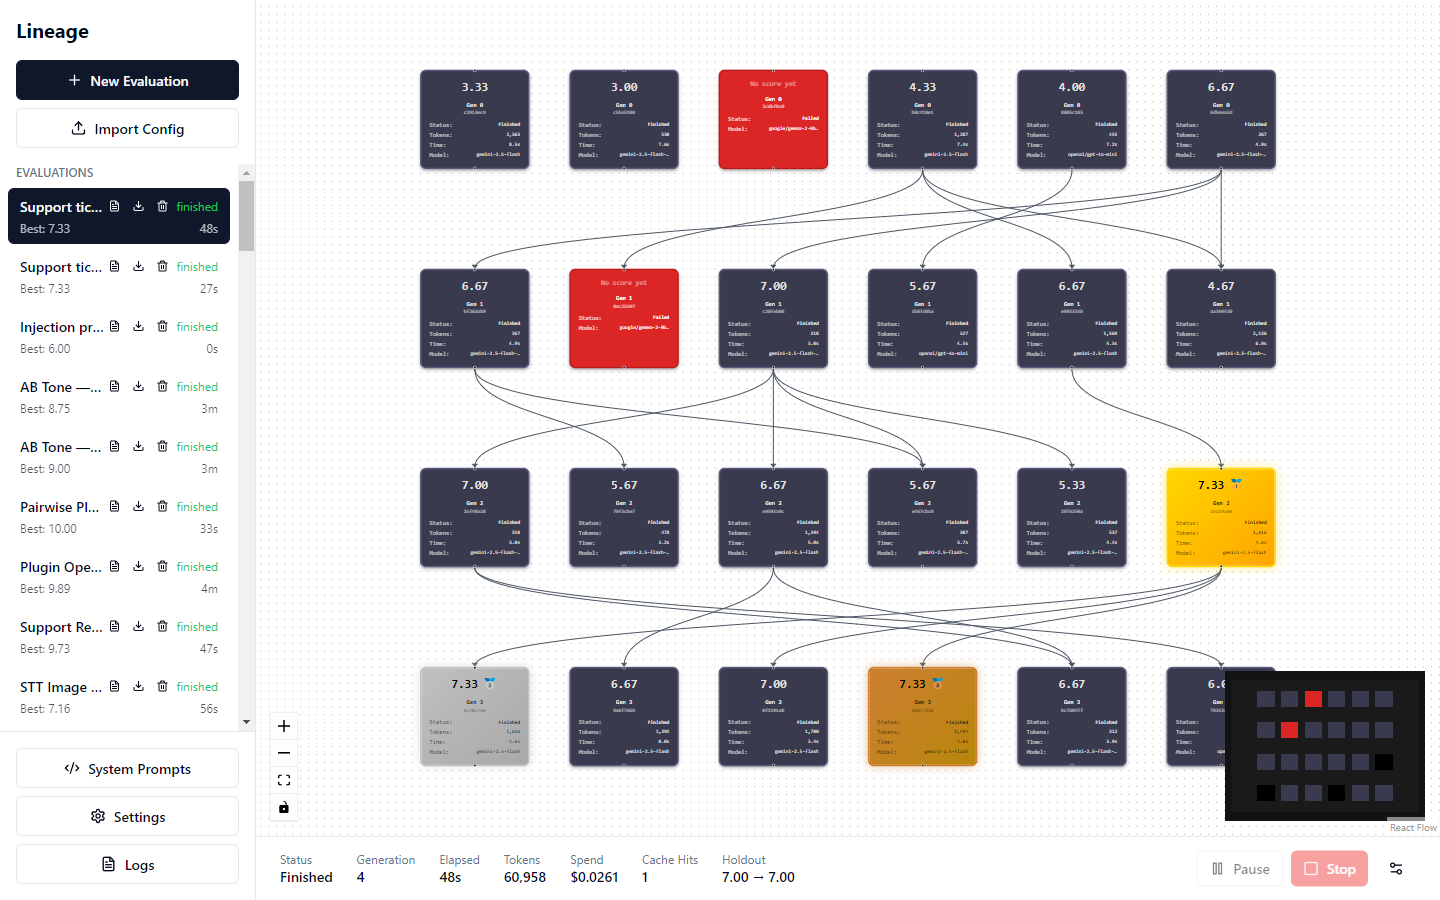
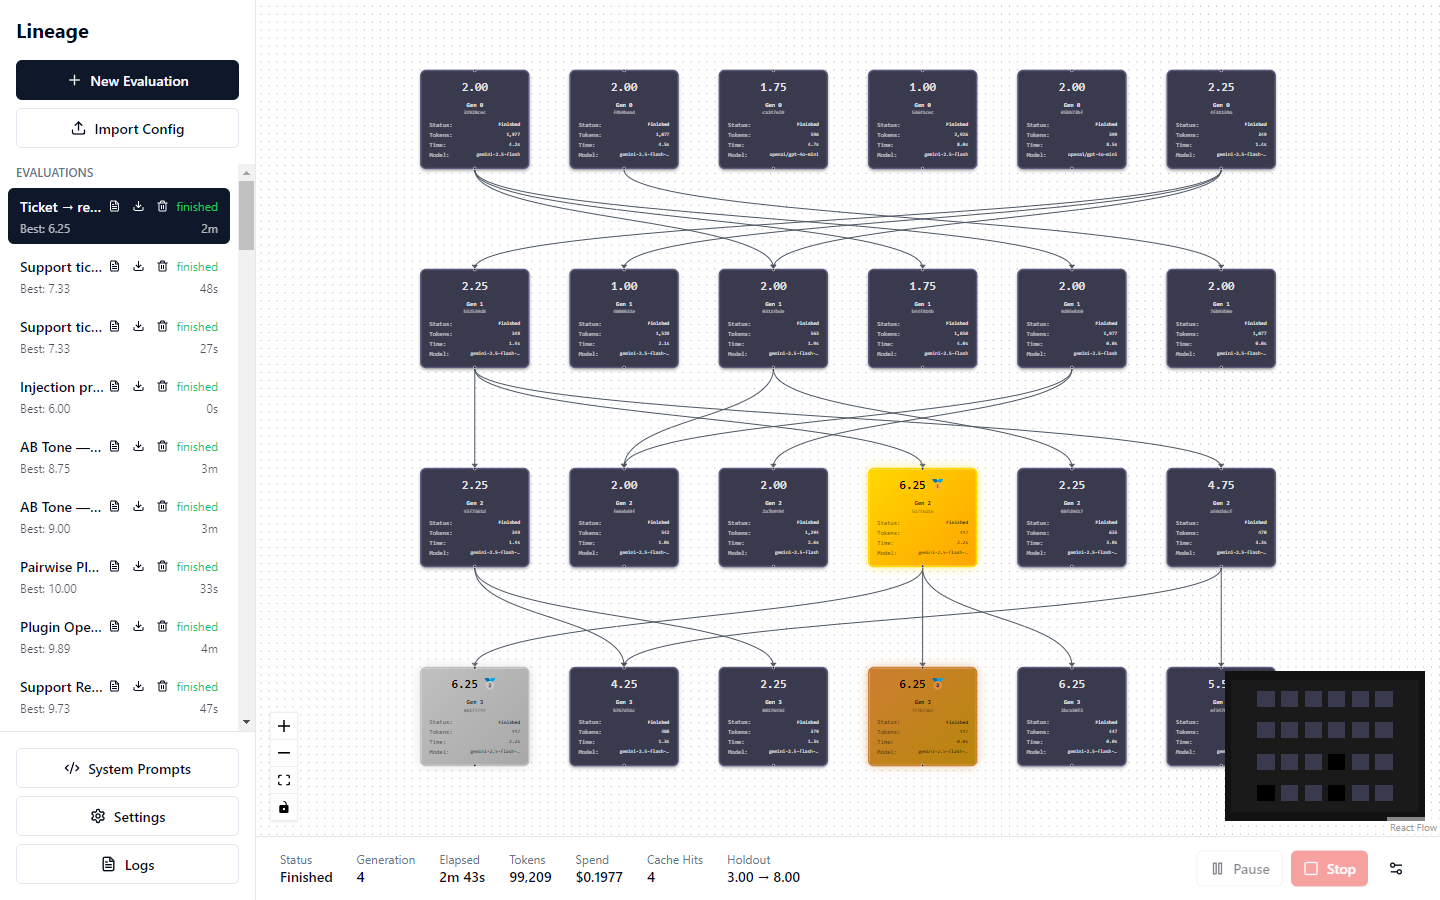
A hero image where the tool actually works
The previous demo picked a task with no headroom - a naive "summarize
this ticket" prompt already scored 6.7, so four generations bought
almost nothing and the holdout never moved. Shipping that as the front
page, with a caption explaining why it was fine, was the wrong call:
the hero exists to show the mechanism working, and the mechanism needs
a task where a bad prompt genuinely fails.

New demo: tickets in, a strict one-line record out. The seed writes
prose and scores 2.25. Meta-prompting reads the graded failures and
writes the output contract itself by generation 2 - 6.25 - and on two
tickets evolution never saw, 3.00 -> 8.00. The champion runs on the
cheapest model in the pool. Every number in the caption comes from that
run, and the node-details shot shows the [META] edit that invented the
format next to the output it produced.

diff --git a/README.md b/README.md
@@ -12,7 +12,7 @@ Lineage treats a prompt like a genome: it spawns a population of variants, score
 
 ![Evolution run](docs/assets/evolution-run.gif)
 
-*A real 48-second run: 24 candidates, 4 generations, 4 models competing, $0.026 total. The hand-written seed scored 6.67; the champion 7.33, reached by meta-prompting that read the judge's complaints and added few-shot examples. Two candidates on one OpenRouter model failed outright (red) and the run carried on. Note the footer: `Holdout 7.00 → 7.00`. The training score improved and the held-out score did not — so this run bought a better prompt on the tests it could see and no proven generalization. The tool says so on its own front page rather than quoting you the training delta.*
+*A real run: 24 candidates, 4 generations, 3 models competing, 2m43s, $0.20 total. The task: turn support tickets into a strict one-line record. The hand-written seed — "Summarize the customer ticket." — scored **2.25**: it writes prose, and prose is the wrong answer. By generation 2, meta-prompting had read the graded failures and written the output contract itself (`order=<order_number> | issue=<core_issue> | request=<specific_request>`) — **6.25**. And the number that counts, bottom right: on two tickets evolution never saw, **3.00 → 8.00**. The format it discovered generalized; that's the claim the holdout is there to license.*
 
 ## Why this beats prompt engineering by hand
 
@@ -20,7 +20,7 @@ Lineage treats a prompt like a genome: it spawns a population of variants, score
 
 **It optimizes trade-offs, not just quality.** Fitness is a weighted blend of five dimensions — quality, safety, cost, latency, stability — so the questions in the header aren't marketing: they're just weight configurations. The population converges toward *your* trade-off, not toward generic eloquence.
 
-**It searches model choice, not just wording.** With several models in the gene pool, the model-variation operator keeps re-dealing prompts to different models, and the per-model scores fall out of the same run — in the demo above, four models competed and the champion ended up on `gemini-2.5-flash` (best 7.33) over `gemini-2.5-flash-lite` (7.00) and `openai/gpt-4o-mini` (6.00), at $0.0014 per candidate. Sometimes that finds a cheap model that matches an expensive one; either way you get the comparison as evidence instead of a hunch.
+**It searches model choice, not just wording.** With several models in the gene pool, the model-variation operator keeps re-dealing prompts to different models, and the per-model comparison falls out of the same run — in the demo above the champion landed on `gemini-2.5-flash-lite`, the cheapest model in the pool, because by then the prompt was carrying the work. Evolution routinely finds that a tuned prompt on a cheap model beats a mediocre prompt on an expensive one, and you get that as measured evidence instead of a hunch.
 
 **It learns from its own failures.** The meta-prompting operator reads the judge's actual feedback on failing tests ("added a preamble", "wrong date format") and performs surgical fixes — not blind rewrites. It's the closest thing to a prompt engineer in the loop, except it reads every test result, every time.
 
@@ -138,11 +138,11 @@ In the desktop app, models load from the catalog with live pricing:
 
 ![New evaluation](docs/assets/new-evaluation.png)
 
-Watch generations appear with full lineage — the champion in gold, failed candidates in red, the footer carrying spend, cache hits and the holdout number as they change:
+Watch generations appear with full lineage — the champion in gold, the footer carrying spend, cache hits and the holdout number as they change:
 
 ![Evolution graph](docs/assets/evolution-graph.png)
 
-Click any node for its evolved prompt, the changelog of exactly what created it (here: meta-prompting adding few-shot examples after reading the judge), and per-test scores with the graded output and the judge's reasoning:
+Click any node for its evolved prompt, the changelog of exactly what created it (here: the `[META]` edit that invented the output contract), and per-test scores with the graded output:
 
 ![Node details](docs/assets/node-details.png)
 
